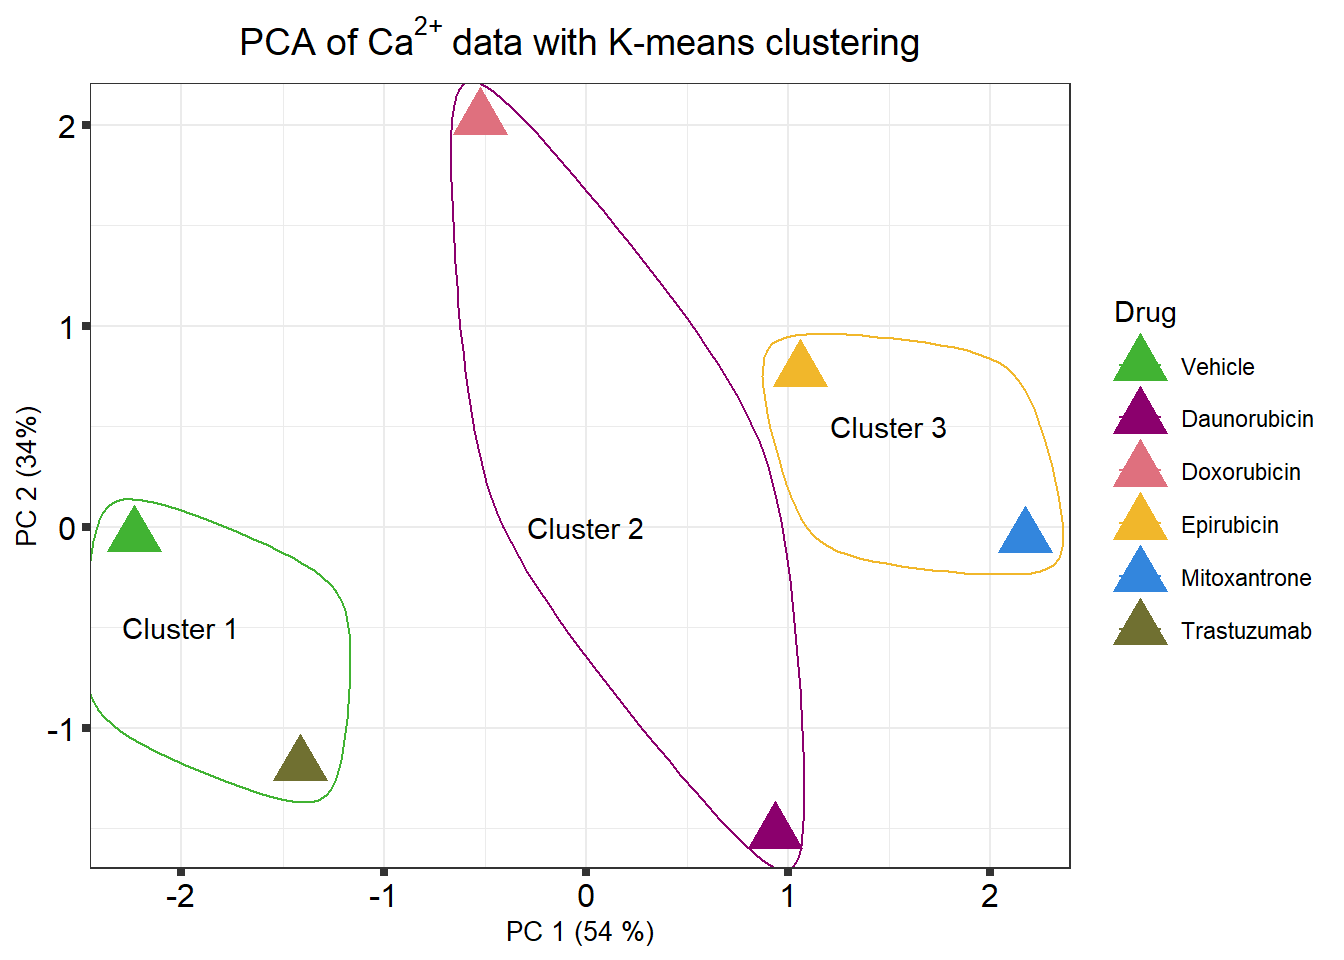
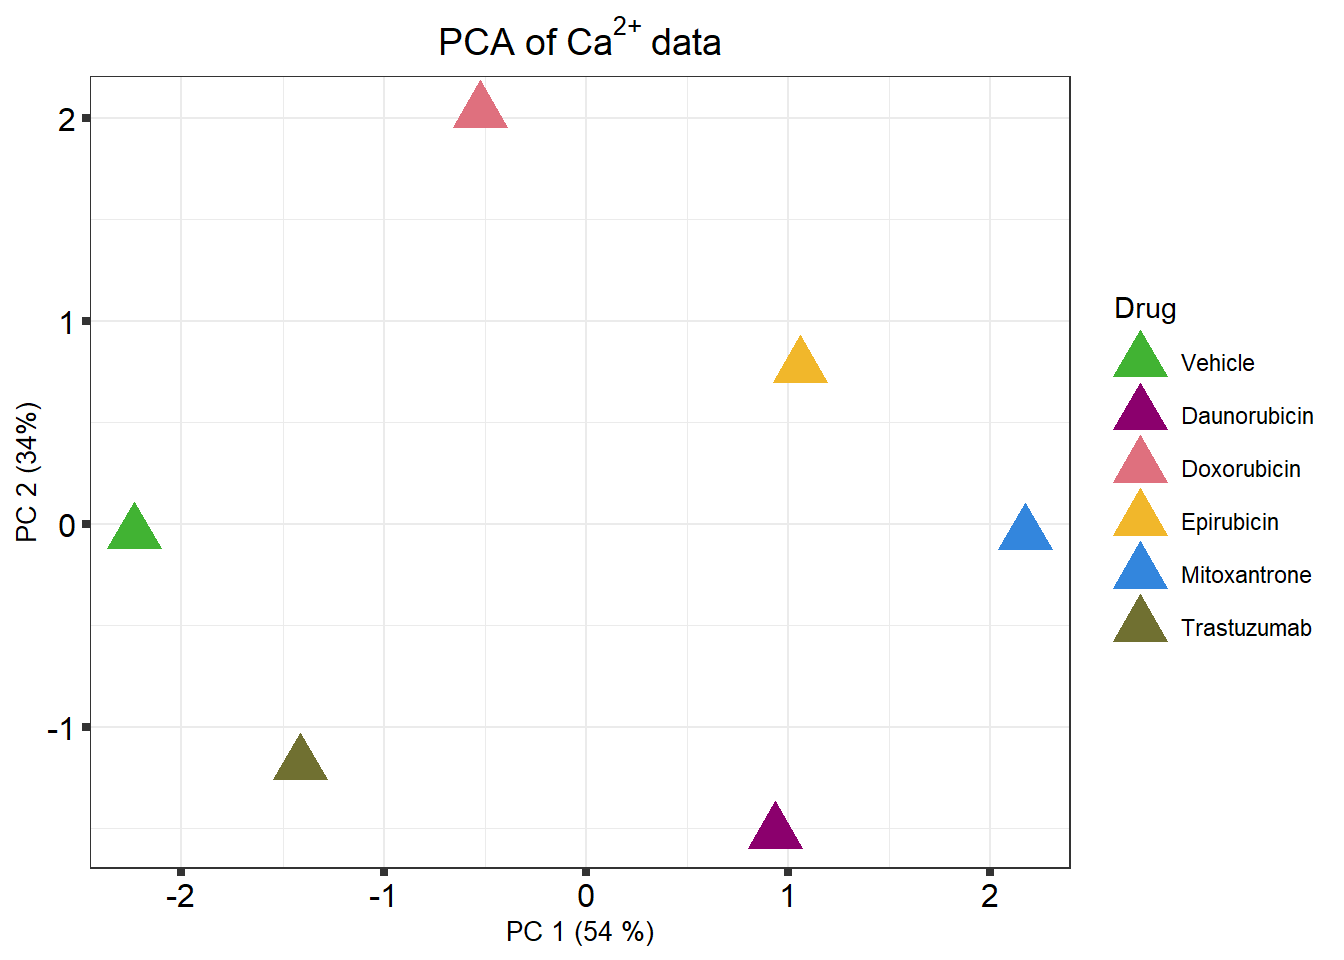
Build site.

diff --git a/docs/LDH_analysis.html b/docs/LDH_analysis.html
@@ -521,15 +521,15 @@ project makes it easier to run your code on other machines.</p>
 <div class="panel panel-default">
 <div class="panel-heading">
 <p class="panel-title">
-<a data-toggle="collapse" data-parent="#workflowr-checks" href="#strongRepositoryversionstrongahrefhttpsgithubcomreneeisnowhereCardiotoxicitytree3cc0a111011d100801837904edb430c14dc1b3datargetblank3cc0a11a">
+<a data-toggle="collapse" data-parent="#workflowr-checks" href="#strongRepositoryversionstrongahrefhttpsgithubcomreneeisnowhereCardiotoxicitytreea04a4b666479e38536e9afa65efb67d8498538e5targetblanka04a4b6a">
 <span class="glyphicon glyphicon-ok text-success"
 aria-hidden="true"></span> <strong>Repository version:</strong>
-<a href="https://github.com/reneeisnowhere/Cardiotoxicity/tree/3cc0a111011d100801837904edb430c14dc1b3da" target="_blank">3cc0a11</a>
+<a href="https://github.com/reneeisnowhere/Cardiotoxicity/tree/a04a4b666479e38536e9afa65efb67d8498538e5" target="_blank">a04a4b6</a>
 </a>
 </p>
 </div>
 <div
[2 lines of base64/hex data omitted]
 class="panel-collapse collapse">
 <div class="panel-body">
 <p>
@@ -539,7 +539,7 @@ reproducibility.
 </p>
 <p>
 The results in this page were generated with repository version
-<a href="https://github.com/reneeisnowhere/Cardiotoxicity/tree/3cc0a111011d100801837904edb430c14dc1b3da" target="_blank">3cc0a11</a>.
+<a href="https://github.com/reneeisnowhere/Cardiotoxicity/tree/a04a4b666479e38536e9afa65efb67d8498538e5" target="_blank">a04a4b6</a>.
 See the <em>Past versions</em> tab to see a history of the changes made
 to the R Markdown and HTML files.
 </p>
@@ -739,6 +739,40 @@ Message
 </tr>
 </thead>
 <tbody>
+<tr>
+<td>
+Rmd
+</td>
+<td>
+<a href="https://github.com/reneeisnowhere/Cardiotoxicity/blob/a04a4b666479e38536e9afa65efb67d8498538e5/analysis/LDH_analysis.Rmd" target="_blank">a04a4b6</a>
+</td>
+<td>
+reneeisnowhere
+</td>
+<td>
+2023-06-21
+</td>
+<td>
+take out PCa clustering
+</td>
+</tr>
+<tr>
+<td>
+html
+</td>
+<td>
+<a href="https://rawcdn.githack.com/reneeisnowhere/Cardiotoxicity/2c0b9c1767002f91419a8f575f027a097159f3a3/docs/LDH_analysis.html" target="_blank">2c0b9c1</a>
+</td>
+<td>
+reneeisnowhere
+</td>
+<td>
+2023-06-21
+</td>
+<td>
+Build site.
+</td>
+</tr>
 <tr>
 <td>
 Rmd
